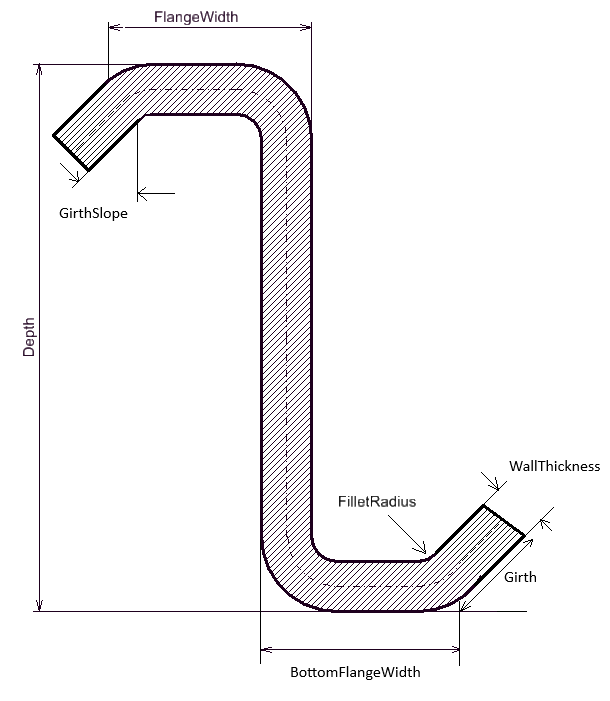
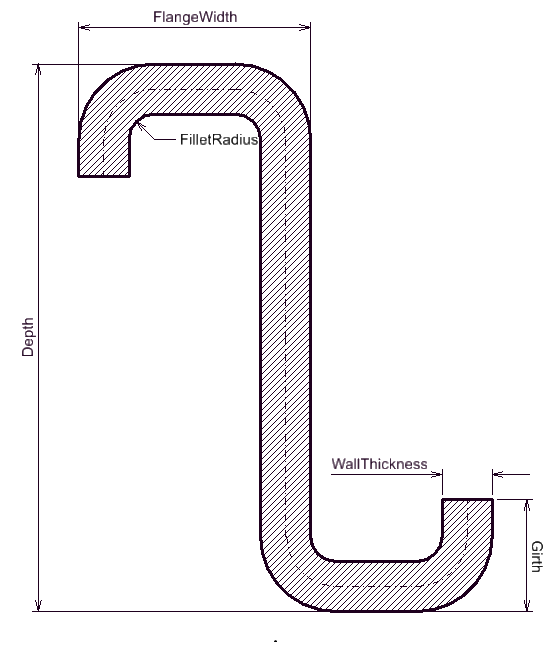
Add Asymmetric Centerline Z Shape to Profiles schema (#647)
* Added AsymmetricCenterlineZShape to PowerDraft dgn

* Add AsymmetricCenterZShape to profile pictures

* Change CenterZShape2 to original

* Update schema with AsymmetricCenterlineZShapeProfile

* Add AsymmetricCenterlineZShapeProfile to remarks

* Small doc improvements

* Add more than zero constraint on centerline Z shape girth

* Add girth must be set when Girth slope is set constraint in remarks

* Add extra distinctions regarding flanges

* Modify AsymmetricCenterlineZShape description to mention cold-formed

diff --git a/Domains/1-Common/Profiles/Profiles.remarks.md b/Domains/1-Common/Profiles/Profiles.remarks.md
@@ -438,9 +438,6 @@ Note that deletion of the referenced [SinglePerimeterProfile](#singleperimeterpr
 ### CenterLineZShapeProfile
 **Constraints:**
 - `FlangeWidth` must be greater than zero
-- `BottomFlangeWidth` (if set):
-  - must be greater than zero
-  - must be greater than half `Girth` plus `WallThickness`
 - `Depth` must be greater than zero
 - `WallThickness`
   - must be greater than zero
@@ -455,14 +452,40 @@ Note that deletion of the referenced [SinglePerimeterProfile](#singleperimeterpr
   - if `Girth` is not set:
     - must be less or equal to `FlangeWidth` minus `WallThickness`
 - `Girth` (if set):
+  - must be greater than zero
   - must be greater than `WallThickness`
-- `Girth Slope` (if set):
-  - must have `Girth` set
-  - must be greater or equal to zero
-  - must be less than ninety degrees
 
 ![CenterLineZShape (only mandatory properties)](media/ProfilePictures/CenterZShape1.png)
 ![CenterLineZShape (all properties)](media/ProfilePictures/CenterZShape2.png)
+
+### AsymmetricCenterlineZShapeProfile
+**Constraints:**
+- `TopFlangeWidth` must be greater than zero
+- `BottomFlangeWidth` must be greater than zero
+- `Depth` must be greater than zero
+- `WallThickness`
+  - must be greater than zero
+  - must be less than half `TopFlangeWidth`
+  - must be less than half `BottomFlangeWidth`
+  - must be less than half `Depth`
+- `FilletRadius` (if set):
+  - must be greater or equal to zero
+  - must be less or equal to half `Depth` minus `WallThickness`
+  - if `Girth` is set:
+    - must be less or equal to half `TopFlangeWidth` minus `WallThickness`
+    - must be less or equal to half `BottomFlangeWidth` minus `WallThickness`
+    - must be less or equal to `Girth` minus `WallThickness`
+  - if `Girth` is not set:
+    - must be less or equal to `TopFlangeWidth` minus `WallThickness`
+    - must be less or equal to `BottomFlangeWidth` minus `WallThickness`
+- `Girth` (if set):
+  - must be greater than zero
+  - must be greater than `WallThickness`
+- `Girth Slope` (if set):
+  - `Girth` must be set
+  - must be greater than zero and less than or equal to ninety degrees
+
+![AsymmetricCenterZShape (all properties)](media/ProfilePictures/AsymmetricCenterZShape.png)
 
 ### BentPlateProfile
 **Derivative properties:**
